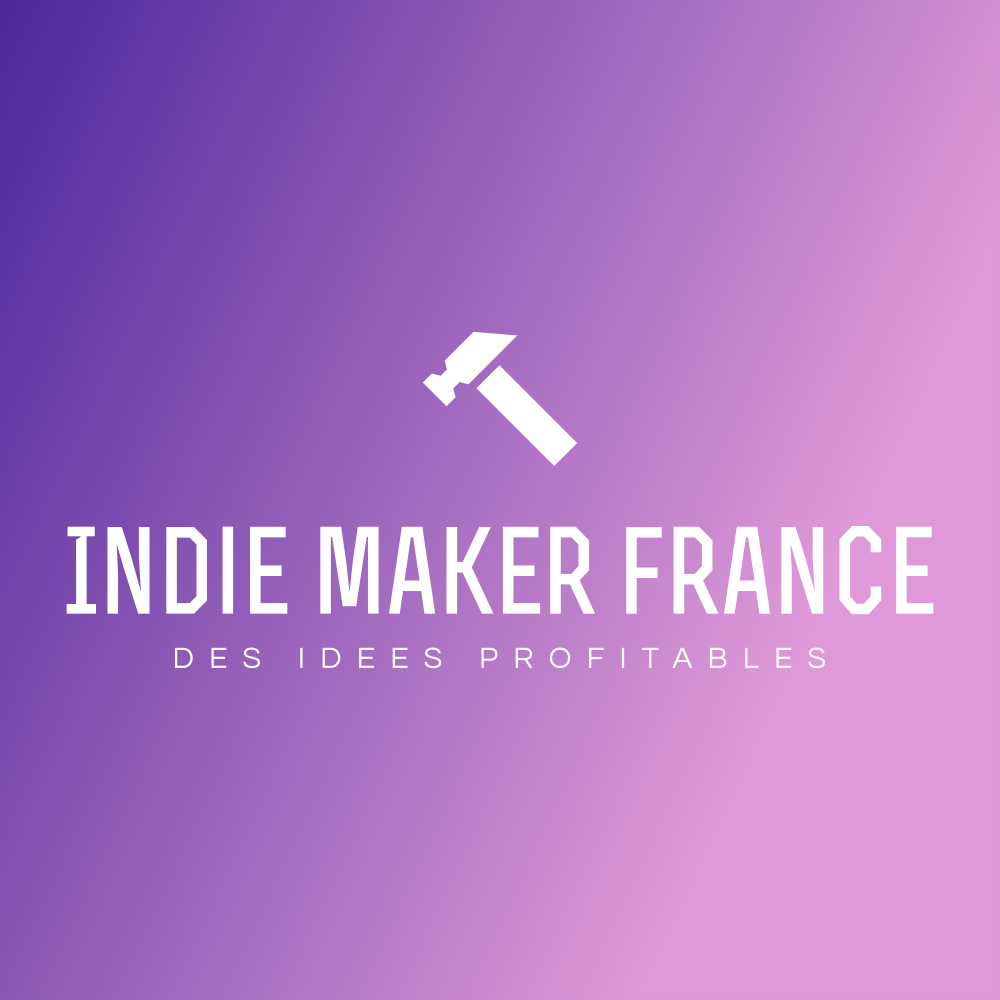
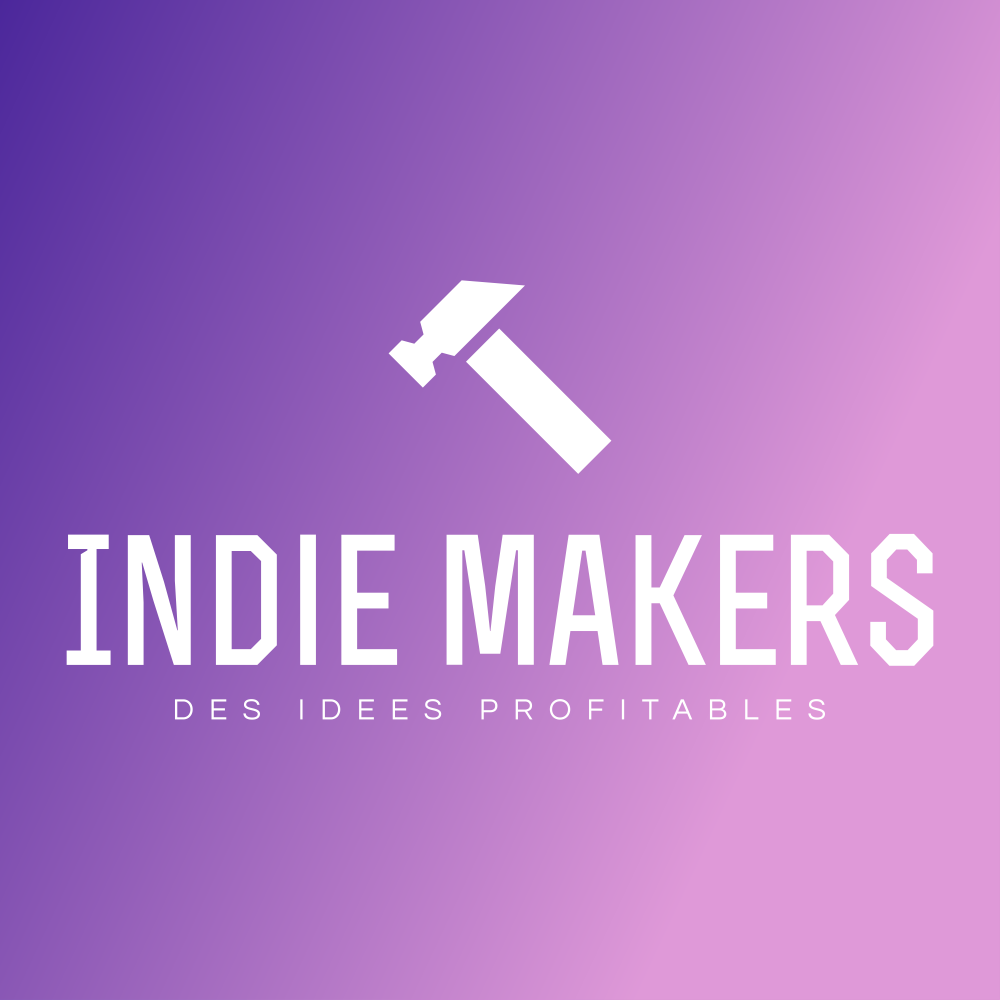
fix link + update social image

Changed region(s): [[0.062, 0.527, 0.961, 0.713], [0.372, 0.279, 0.62, 0.465]]

diff --git a/functions/src/index.ts b/functions/src/index.ts
@@ -324,7 +324,7 @@ export const calcVotesByPerson = functions.firestore
 const sendEmailEp = (user: any, maker: Person, makerId: string, subject: string, template: string, previewText: string) => {
     return new Promise((resolve, reject) => {
         const linkEp = `https://indiemaker.fr/#/episode/${makerId}`;
-        const tweet = `J'écoute le podcast @indiemakerfr avec @${maker.login} 🚀 ${linkEp}`
+        const tweet = `J'écoute le podcast @indiemakersfr avec @${maker.login} 🚀 ${linkEp}`
         const tweetLink = `https://twitter.com/intent/tweet?text=${encodeURIComponent(tweet)}`
         sendWithTemplate('indiemakerfr@gmail.com', user.email, subject, previewText, template, {
             LINKEPISODE: linkEp,
@@ -352,7 +352,7 @@ const getUser = async (id: string) => {
 
 const sendEmailWel = (user: any, subject: string, template: string, previewText: string) => {
     return new Promise((resolve, reject) => {
-        const tweet = `J'écoute le podcast @indiemakerfr 🚀 https://indiemaker.fr`
+        const tweet = `J'écoute le podcast @indiemakersfr 🚀 https://indiemaker.fr`
         const tweetLink = `https://twitter.com/intent/tweet?text=${encodeURIComponent(tweet)}`
         sendWithTemplate('indiemakerfr@gmail.com', user.email, subject, previewText, template, {
             TWEETLINK: tweetLink,

diff --git a/functions/emails/remerciment_add.html b/functions/emails/remerciment_add.html
@@ -815,7 +815,7 @@ Cordialement, Bisous 💋</p>
                                                                         <tbody><tr>
                                                                             
                                                                                 <td align="center" valign="middle" width="24" class="mcnFollowIconContent">
-                                                                                    <a href="http://www.twitter.com/indiemakerfr" target="_blank"><img src="https://cdn-images.mailchimp.com/icons/social-block-v2/color-twitter-48.png" alt="Twitter" style="display:block;" height="24" width="24" class=""></a>
+                                                                                    <a href="http://www.twitter.com/indiemakersfr" target="_blank"><img src="https://cdn-images.mailchimp.com/icons/social-block-v2/color-twitter-48.png" alt="Twitter" style="display:block;" height="24" width="24" class=""></a>
                                                                                 </td>
                                                                             
                                                                             

diff --git a/functions/emails/remerciment_vote.html b/functions/emails/remerciment_vote.html
@@ -813,7 +813,7 @@ Cordialement, Bisous 💋</p>
                                                                         <tbody><tr>
                                                                             
                                                                                 <td align="center" valign="middle" width="24" class="mcnFollowIconContent">
-                                                                                    <a href="http://www.twitter.com/indiemakerfr" target="_blank"><img src="https://cdn-images.mailchimp.com/icons/social-block-v2/color-twitter-48.png" alt="Twitter" style="display:block;" height="24" width="24" class=""></a>
+                                                                                    <a href="http://www.twitter.com/indiemakersfr" target="_blank"><img src="https://cdn-images.mailchimp.com/icons/social-block-v2/color-twitter-48.png" alt="Twitter" style="display:block;" height="24" width="24" class=""></a>
                                                                                 </td>
                                                                             
                                                                             

diff --git a/functions/emails/welcome.html b/functions/emails/welcome.html
@@ -713,7 +713,7 @@ Si tu le souhaites, tu peux maintenant rejoindre notre groupe Telegram ( Le Chan
                     <tbody>
                         <tr>
                             <td align="center" valign="middle" class="mcnButtonContent" style="font-family: Arial; font-size: 16px; padding: 18px;">
-                                <a class="mcnButton " title="🦚Partager" href="https://twitter.com/intent/tweet?text=J%27%C3%A9coute%20le%20podcast%20@indiemakerfr%20https://indiemaker.fr" target="_blank" style="font-weight: bold;letter-spacing: normal;line-height: 100%;text-align: center;text-decoration: none;color: #FFFFFF;">🦚Partager</a>
+                                <a class="mcnButton " title="🦚Partager" href="https://twitter.com/intent/tweet?text=J%27%C3%A9coute%20le%20podcast%20@indiemakersfr%20https://indiemakers.fr" target="_blank" style="font-weight: bold;letter-spacing: normal;line-height: 100%;text-align: center;text-decoration: none;color: #FFFFFF;">🦚Partager</a>
                             </td>
                         </tr>
                     </tbody>

diff --git a/src/components/episode.vue b/src/components/episode.vue
@@ -430,11 +430,11 @@ export default {
       }
     },
     bmc() {
-      window.open("https://www.buymeacoffee.com/indiemakerfr", "_blank");
+      window.open("https://www.buymeacoffee.com/indiemakersfr", "_blank");
     },
     tweetIt() {
-      const linkEp = `https://indiemaker.fr/#/episode/${this.id}`;
-      const tweet = `J'écoute le podcast @indiemakerfr avec @${this.person.login} 🚀 ${linkEp}`;
+      const linkEp = `https://indiemakers.fr/#/episode/${this.id}`;
+      const tweet = `J'écoute le podcast @indiemakersfr avec @${this.person.login} 🚀 ${linkEp}`;
       const tweetLink = `https://twitter.com/intent/tweet?text=${encodeURIComponent(
         tweet
       )}`;

diff --git a/src/components/episodes.vue b/src/components/episodes.vue
@@ -429,7 +429,7 @@ export default {
       event.target.src = `assets/profile.png`;
     },
     tweetIt() {
-      const text = `@${this.currentName}, j'aimerais beaucoup que tu sois le·a prochain invité·e du podcast @indiemakerfr 🚀.`;
+      const text = `@${this.currentName}, j'aimerais beaucoup que tu sois le·a prochain invité·e du podcast @indiemakersfr 🚀.`;
       window.open(`https://twitter.com/intent/tweet?text=${text}`, "_blank");
       this.$modal.hide("added");
       this.$modal.hide("voted");

diff --git a/public/index.html b/public/index.html
@@ -115,7 +115,7 @@
 
 <body>
   <noscript>
-    <strong>We're sorry but indiemakerfr doesn't work properly without JavaScript enabled. Please enable it
+    <strong>We're sorry but indiemakersfr doesn't work properly without JavaScript enabled. Please enable it
       to continue.</strong>
   </noscript>
   <div id="app"></div>

diff --git a/src/components/nav.vue b/src/components/nav.vue
@@ -24,7 +24,7 @@ export default {
   data() {
     return {
       logo: {
-        title: "indiemakerfr",
+        title: "indiemakersfr",
         source: "/assets/default-monochrome-white.svg",
         lien: "/"
       },
